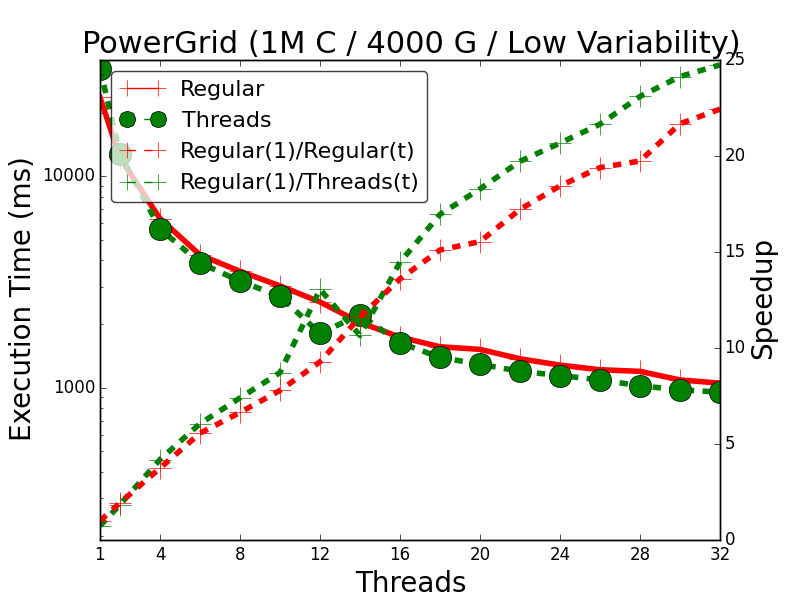
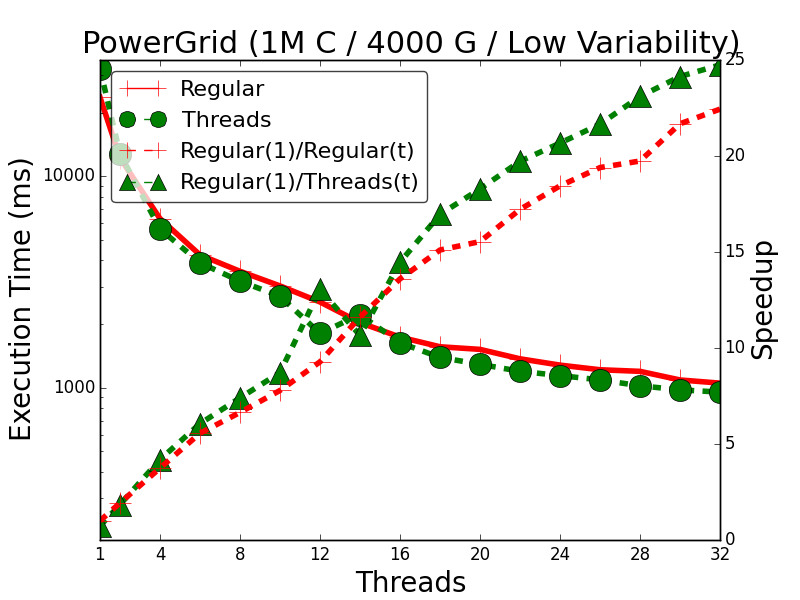
Change marker in plots.

diff --git a/experiments/lib.py b/experiments/lib.py
@@ -735,7 +735,7 @@ class experiment(object):
       coordtime, = ax.plot(coord_exp.x_axis(), coord_exp.time_data(),
          label=name_coord + ' Run Time', linestyle='--', marker='o', color='g')
       coordspeedup, = ax2.plot(coord_exp.x_axis(), coord_exp.base_speedup_data(self.get_time(1)),
-            label=name_coord + ' Speedup', linestyle='--', marker='+', color='g')
+            label=name_coord + ' Speedup', linestyle='--', marker='^', color='g')
       regspeedup, = ax2.plot(self.x_axis(), self.base_speedup_data(),
             label='Regular Speedup', linestyle='--', marker='+', color='r')
       if cexp:
